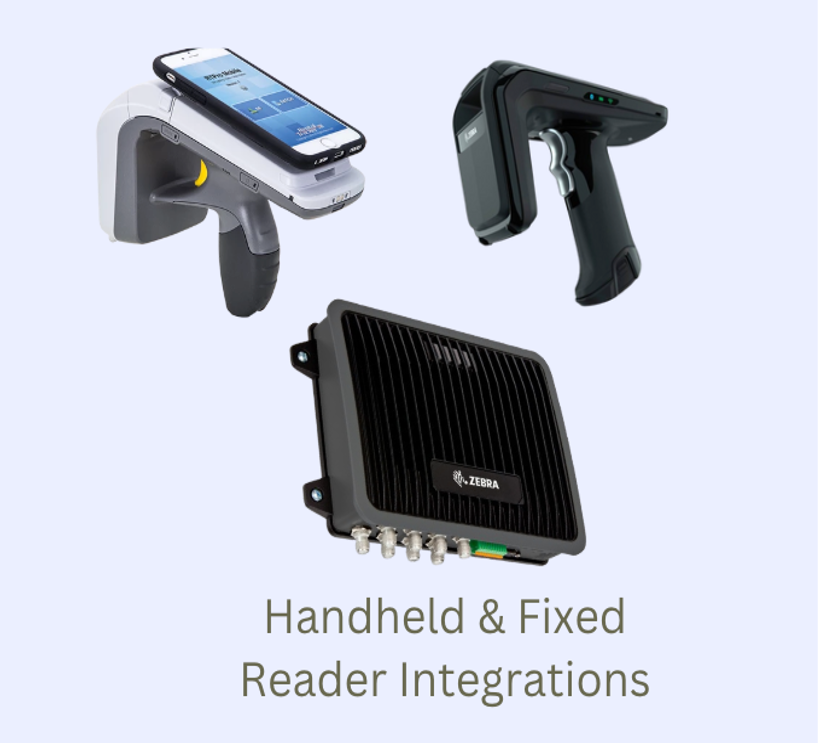
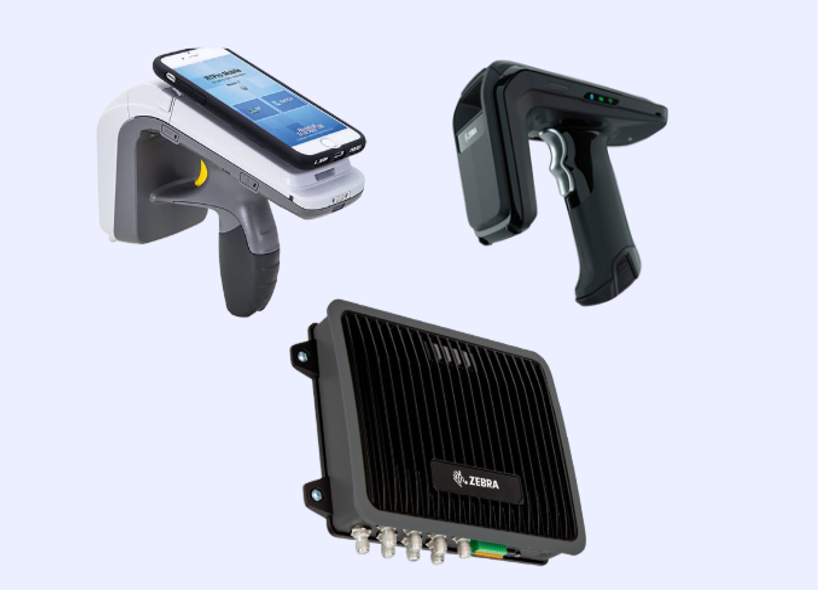
Fix tab button visual state; crop captions from reader and web-mobile images
- css/style.css: add !important background/border/color to .tab-btn base rule
  so inactive buttons reset to white when active class is removed by JS
  (previously the first button's inline style kept it blue permanently)
- images/tech-handheld-reader.png: cropped bottom 153px to remove text caption
- images/tech-web-mobile.png: cropped bottom 153px to remove text caption

https://claude.ai/code/session_01Gn4dWaLhNCXBMmq7C1GyHw

Changed region(s): [[0.1221, 0.061, 0.8242, 0.9763]]

diff --git a/css/style.css b/css/style.css
@@ -588,7 +588,7 @@ img { max-width: 100%; display: block; }
 .btn-demo:hover::before { opacity: 1; }
 
 /* ---- Tab Component ---- */
-.tab-btn { transition: all 0.2s; cursor: pointer; }
+.tab-btn { transition: all 0.2s; cursor: pointer; background: #fff !important; border-color: #e5e7eb !important; color: #374151 !important; }
 .tab-btn.active { background: var(--primary) !important; border-color: var(--primary) !important; color: #fff !important; box-shadow: 0 4px 16px rgba(27,169,222,0.35); }
 .tab-panel { display: none; }
 .tab-panel.active { display: block; }
